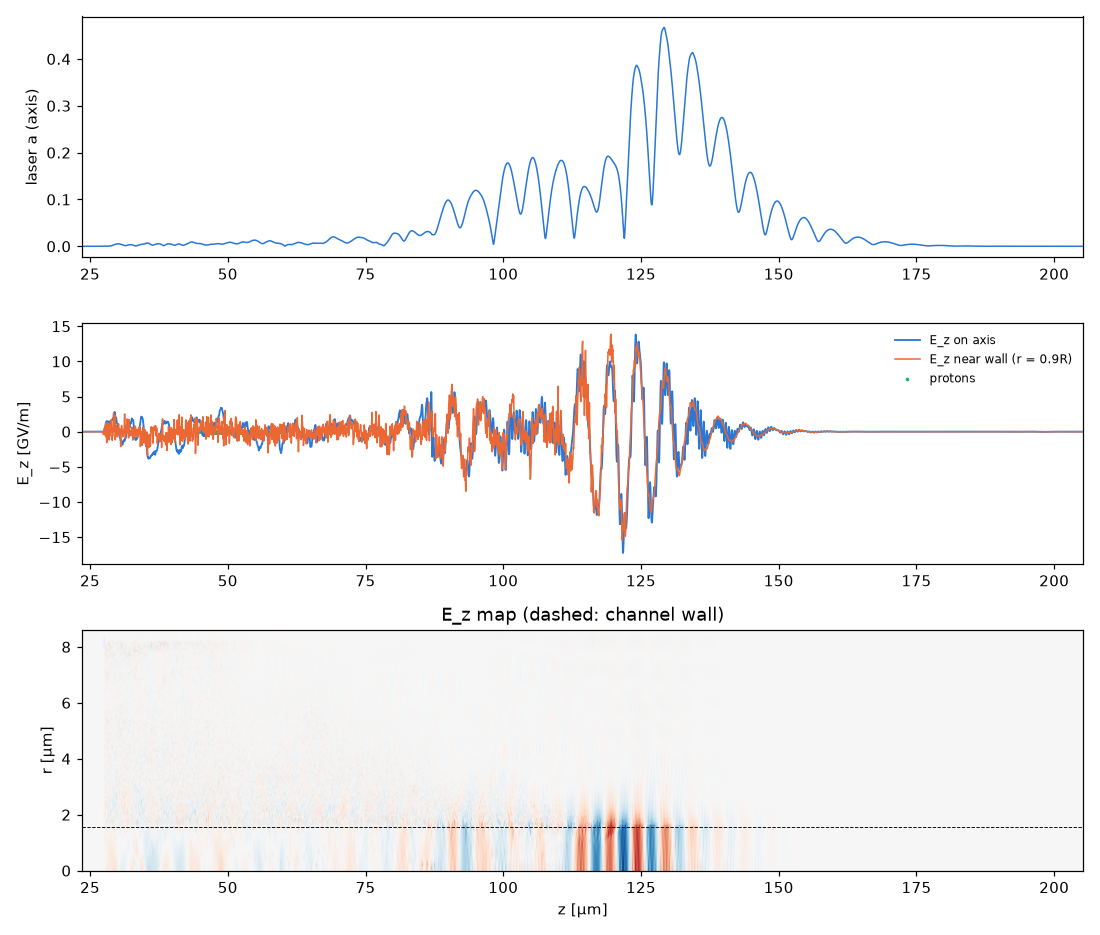
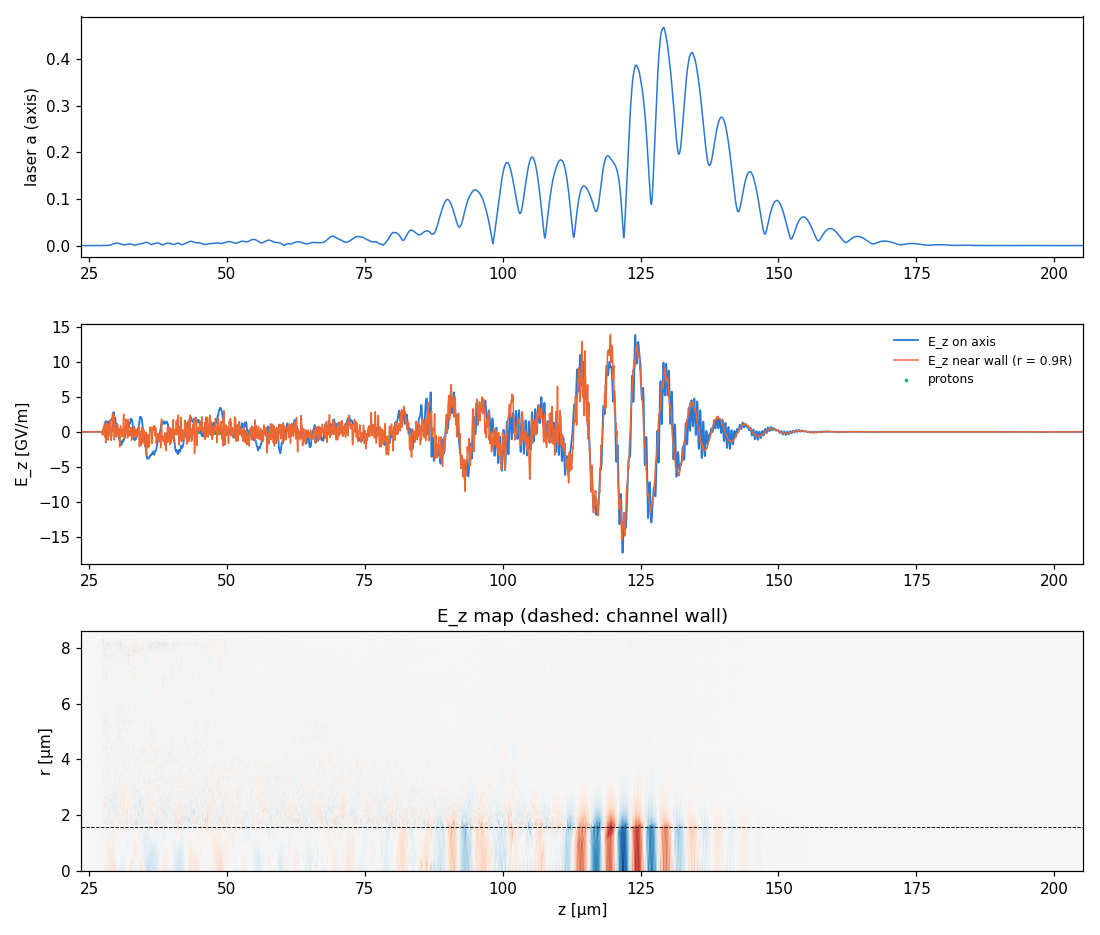
Correct S044 wave-speed measurement (0.979c by cross-correlation, matches guided-mode theory 0.980c); retuned follow-up set-up

diff --git a/sims/phase2/analyse_fbpic_sp.py b/sims/phase2/analyse_fbpic_sp.py
@@ -6,27 +6,35 @@ import matplotlib.pyplot as plt
 from scipy.constants import c
 
 here = os.path.dirname(os.path.abspath(__file__)); ROOT = os.path.join(here, "..", "..")
-out_dir = os.path.join(here, "fbpic_sp_out")
+out_name = sys.argv[1] if len(sys.argv) > 1 else "fbpic_sp_out"
+tag = sys.argv[2] if len(sys.argv) > 2 else "FBPIC_surface_plasmon"
+out_dir = os.path.join(here, out_name)
 summ = json.load(open(os.path.join(out_dir, "summary.json")))
 d = summ["design"]; E0w = d["E0_wall_GVm"] * 1e9; R = d["R_um"] * 1e-6; lam_sp = d["lam_sp_um"] * 1e-6
-files = sorted(glob.glob(os.path.join(out_dir, "snap_*.npz")))
+# only this run's snapshots (an earlier aborted attempt left snap_000050/100/200 in fbpic_sp_out)
+files = [os.path.join(out_dir, f"snap_{r['step']:06d}.npz") for r in summ["snaps"]]
 S = [np.load(f) for f in files]
 
 
-def crossings(s, field="Ez_axis"):
-    z, E = s["z"], s[field]
-    m = np.abs(E) > 0.05 * np.abs(E).max()
-    idx = np.where((E[:-1] > 0) & (E[1:] <= 0) & m[:-1])[0]
-    return z[idx] - c * float(s["t"])
+def xcorr_velocity(s1, s2, half_width=12e-6):
+    """Speed of the E_z pattern near the laser envelope: cross-correlate on-axis E_z of two
+    snapshots in lab coordinates, searching displacements c*dt +- lam_sp/2."""
+    z1, z2 = s1["z"], s2["z"]; dzg = z1[1] - z1[0]; dt = float(s2["t"] - s1["t"])
+    env = s2["env_a"]; ze = np.sum(z2 * env ** 2) / np.sum(env ** 2)
+    m = np.where(np.abs(z2 - ze) < half_width)[0]; a_ = s2["Ez_axis"][m]
+    lags = np.arange(-int(0.5 * lam_sp / dzg), int(0.5 * lam_sp / dzg) + 1); cc = []
+    for L in lags:
+        b = np.interp(z2[m] - c * dt - L * dzg, z1, s1["Ez_axis"])
+        cc.append(np.dot(a_, b) / np.sqrt(np.dot(a_, a_) * np.dot(b, b) + 1e-30))
+    i = int(np.argmax(cc))
+    return 1 + lags[i] * dzg / (c * dt), float(cc[i])
 
 
 vel = []
 for s1, s2 in zip(S[:-1], S[1:]):
-    z1, z2 = crossings(s1), crossings(s2)
-    dt = float(s2["t"] - s1["t"])
-    dz = [q - z1[np.argmin(np.abs(z1 - q))] for q in z2 if z1.size and np.min(np.abs(z1 - q)) < 0.4 * lam_sp]
-    if dz:
-        vel.append(1 + np.median(dz) / (c * dt))
+    v_, q_ = xcorr_velocity(s1, s2)
+    if q_ > 0.5:
+        vel.append(v_)
 s = S[-1]
 z, Ea, Ew, env = s["z"], s["Ez_axis"], s["Ez_wall"], s["env_a"]
 ze = np.sum(z * env ** 2) / np.sum(env ** 2)
@@ -43,16 +51,19 @@ if behind.any():
 inside = np.abs(z - ze) < 2 * we
 ratio_axis_wall = float(np.abs(Ea[inside]).max() / max(np.abs(Ew[inside]).max(), 1e-9))
 T0 = S[0]["pT"]; T1 = s["pT"]; r0 = S[0]["pr"]; r1 = s["pr"]
-dT = T1 - T0
-res = dict(wave_phase_velocity_c=[float(v) for v in vel], target_velocity_c=0.971,
+res = dict(wave_phase_velocity_c=[float(v) for v in vel], wave_velocity_mean_c=float(np.mean(vel)) if vel else None,
+           wave_velocity_std_c=float(np.std(vel)) if vel else None, target_velocity_c=0.9712,
            Ez_axis_max_in_train_GVm=float(np.abs(Ea[inside]).max() / 1e9),
            axis_over_wall_in_train=ratio_axis_wall, periods_behind=per,
-           proton_dT_mean_MeV=float(dT.mean()), proton_dT_max_MeV=float(dT.max()), proton_dT_min_MeV=float(dT.min()),
+           # particle order is not preserved between GPU snapshots -> compare distributions, not particles
+           proton_T_mean_change_MeV=float(T1.mean() - T0.mean()),
+           proton_T_std_MeV=[float(T0.std()), float(T1.std())],
+           proton_T_range_MeV=[[float(T0.min()), float(T0.max())], [float(T1.min()), float(T1.max())]],
            proton_r_rms_um=[float(np.sqrt(np.mean(r0 ** 2)) * 1e6), float(np.sqrt(np.mean(r1 ** 2)) * 1e6)],
            proton_frac_inside_R=float(np.mean(r1 < R)), t_fs=float(s["t"] * 1e15),
            protons_behind_envelope_um=float((ze - np.mean(s["pz"])) * 1e6))
 print(json.dumps(res, indent=1))
-json.dump(res, open(os.path.join(ROOT, "results", "data", "FBPIC_surface_plasmon_analysis.json"), "w"), indent=1)
+json.dump(res, open(os.path.join(ROOT, "results", "data", f"{tag}_analysis.json"), "w"), indent=1)
 fig, ax = plt.subplots(3, 1, figsize=(10, 8.5))
 zz = z * 1e6
 ax[0].plot(zz, env, color="#2a78d6", lw=1); ax[0].set_ylabel("laser a (axis)")
@@ -68,4 +79,4 @@ ax[2].axhline(R * 1e6, color="k", lw=0.6, ls="--"); ax[2].set_ylabel("r [µm]");
 ax[2].set_title("E_z map (dashed: channel wall)")
 for a_ in ax[:2]:
     a_.set_xlim(zz[0], zz[-1])
-plt.tight_layout(); plt.savefig(os.path.join(ROOT, "results", "figures", "FBPIC_surface_plasmon.png"), dpi=110)
+plt.tight_layout(); plt.savefig(os.path.join(ROOT, "results", "figures", f"{tag}.png"), dpi=110)

diff --git a/sims/phase2/modal_fbpic_sp.py b/sims/phase2/modal_fbpic_sp.py
@@ -1,8 +1,8 @@
 """Run the FBPIC hollow-channel surface-plasmon test (S044) on a Modal GPU and copy results back.
 
 Usage (from the repo root, via the Avast-compatible launcher):
-    python ~/.local/bin/modal_avast.py run sims/phase2/modal_fbpic_train.py --steps 4500
-Outputs land in sims/phase2/fbpic_train_out/ (snapshots are git-ignored; summary.json is kept).
+    python ~/.local/bin/modal_avast.py run sims/phase2/modal_fbpic_sp.py --steps 6000 [--extra "--R_cwp 2.4 ..."] [--out fbpic_sp2_out]
+Outputs land in sims/phase2/<out>/ (snapshots are git-ignored; summary.json is kept).
 """
 import os
 import modal
@@ -18,27 +18,28 @@ image = (
 app = modal.App("mcf-fbpic-surface-plasmon", image=image)
 
 
-@app.function(gpu=["L4", "A10G", "T4", "L40S"], timeout=3 * 3600, cpu=4, memory=16384)
-def run(steps: int = 6000, diag_every: int = 500):
+@app.function(gpu=["L4", "A10G", "T4", "L40S"], timeout=6 * 3600, cpu=4, memory=16384)
+def run(steps: int = 6000, diag_every: int = 500, extra: str = "", out: str = "fbpic_sp_out"):
     import subprocess, glob, time
     t0 = time.time()
     cmd = ["python", "/work/fbpic_surface_plasmon.py", "--steps", str(steps), "--diag_every", str(diag_every),
-           "--cuda", "--out", "fbpic_sp_out"]
+           "--cuda", "--out", out] + extra.split()
     p = subprocess.run(cmd, cwd="/work", capture_output=True, text=True)
     files = {}
-    for f in glob.glob("/work/fbpic_sp_out/*"):
+    for f in glob.glob(f"/work/{out}/*"):
         files[os.path.basename(f)] = open(f, "rb").read()
     return dict(returncode=p.returncode, stdout=p.stdout[-20000:], stderr=p.stderr[-8000:],
                 files=files, runtime_s=time.time() - t0)
 
 
 @app.local_entrypoint()
-def main(steps: int = 6000, diag_every: int = 500):
-    res = run.remote(steps, diag_every)
-    out = os.path.join(HERE, "fbpic_sp_out")
+def main(steps: int = 6000, diag_every: int = 500, extra: str = "", out: str = "fbpic_sp_out"):
+    res = run.remote(steps, diag_every, extra, out)
+    log = os.path.join(HERE, out.replace("_out", "") + "_run_modal.log")
+    out = os.path.join(HERE, out)
     os.makedirs(out, exist_ok=True)
     for name, data in res["files"].items():
         open(os.path.join(out, name), "wb").write(data)
-    open(os.path.join(HERE, "fbpic_sp_run_modal.log"), "w").write(res["stdout"] + "\n--- stderr ---\n" + res["stderr"])
+    open(log, "w").write(res["stdout"] + "\n--- stderr ---\n" + res["stderr"])
     print(f"returncode={res['returncode']} runtime={res['runtime_s']:.0f}s files={len(res['files'])}")
     print("\n".join(l for l in res["stdout"].splitlines() if l.startswith("step") or "Error" in l)[-3000:])

diff --git a/sims/phase2/fbpic_surface_plasmon.py b/sims/phase2/fbpic_surface_plasmon.py
@@ -27,6 +27,8 @@ ap.add_argument("--w_ratio", type=float, default=3.3, help="w_laser / w_pw(wall)
 ap.add_argument("--R_cwp", type=float, default=3.0)
 ap.add_argument("--wsp", type=float, default=0.662, help="surface-mode frequency / w_pw")
 ap.add_argument("--tau_fs", type=float, default=100.0, help="intensity FWHM of each colour")
+ap.add_argument("--w0_R", type=float, default=0.65, help="laser waist / R (LP01 match ~ 0.65+1.619V^-1.5)")
+ap.add_argument("--bunch", default="behind", choices=["behind", "centre"], help="proton bunch behind the envelope (S044) or at its centre, inside the beat (S045)")
 ap.add_argument("--cuda", action="store_true")
 ap.add_argument("--out", default="fbpic_sp_out")
 a = ap.parse_args()
@@ -39,14 +41,14 @@ cwp = c / wpw
 R = a.R_cwp * cwp
 w2 = w1 - a.wsp * wpw
 lam2 = 2 * np.pi * c / w2
-w0 = 0.65 * R                                   # fundamental hollow-core mode ~ 0.65 R
+w0 = a.w0_R * R                                 # S044: 0.65 R; S045: LP01 mode-field radius
 tau = a.tau_fs * 1e-15 / np.sqrt(2 * np.log(2))
 
 dz = lam1 / 30
 dr = R / 40
 rmax = 3.5 * R + 6 * cwp
 Nr = int(rmax / dr)
-lam_sp = 2 * np.pi * cwp / (a.wsp / 0.971)
+lam_sp = 2 * np.pi * cwp / (a.wsp / 0.9712)
 Lz = 2.6 * c * tau * 2 + 8 * lam_sp
 Nz = int(Lz / dz)
 zmax, zmin = 0.0, -Lz
@@ -71,7 +73,7 @@ sim.add_new_species(q=e, m=m_p, n=n_w, dens_func=dens, p_nz=2, p_nr=2, p_nt=4,
 for lam in (lam1, lam2):
     add_laser_pulse(sim, GaussianLaser(a0=a.a0, waist=w0, tau=tau, z0=z0, zf=z0, lambda0=lam))
 g0 = 1 + 3000.0 / 938.272
-zb = z0 - 2.6 * c * tau - 2 * lam_sp
+zb = z0 - 2.6 * c * tau - 2 * lam_sp if a.bunch == "behind" else z0
 bunch = add_particle_bunch_gaussian(sim, q=e, m=m_p, sig_r=0.15 * R, sig_z=0.5 * lam_sp, n_emit=2e-10,
                                     gamma0=g0, sig_gamma=1e-4 * g0, n_physical_particles=1e4,
                                     n_macroparticles=20000, tf=0.0, zf=zb)

diff --git a/docs/SIMULATION_LOG.md b/docs/SIMULATION_LOG.md
@@ -371,7 +371,7 @@ Codes (all in `sims/codes/`):
 - **Set-up (from S040):** wall n = 1.02×10²⁰ cm⁻³ (E₀,wall = 973 GV/m), vacuum core R = 3 c/ω_pw = 1.58 µm, two colours 1.00 µm + 1.25 µm (beat = 0.662 ω_pw, target wave speed 0.971c), a0 = 0.4 each, 100 fs, w0 = 0.65R, launched already focused inside the channel (an earlier attempt launched from vacuum clipped the 1-µm-waist beam); 3 GeV proton test bunch (σ_r = 0.15R, normalised emittance 2×10⁻¹⁰ m rad) placed behind the laser.
 - **Results (t = 667 fs, ≈ 200 µm of channel):**
   - beat is guided; on-axis E_z in the train 13–30 GV/m over the run (17 GV/m at the end) = **~0.02 E₀,wall**; axis/wall ratio 1.1 (field fills the core, as predicted for R = 3 c/ω_p at this speed);
-  - wave phase velocity: only two usable snapshot-pair estimates, **1.05c and 1.10c** (target 0.971c). Superluminal values point to the measured E_z being dominated by the laser-driven/guided-mode beat rather than a free slow surface wave; the slow mode is **not** demonstrated;
+  - wave phase velocity (**corrected 2026-11-03**, cross-correlating on-axis E_z between successive snapshots near the envelope, 11 pairs): **0.979 ± 0.006c**, vs 0.971c needed and **0.980c predicted** by the LP01 guided-mode dispersion of the hollow channel (both colours in the fundamental mode; V = ω_pw R/c = 3). *The first version of this entry reported 1.05c and 1.10c: that zero-crossing estimate was wrong — it picked up noise behind the envelope and mixed in three stale snapshots (steps 50/100/200) from the earlier clipped attempt.* So the beat is sub-luminal and only ~1 % too fast (dephasing length ≈ 0.3 mm);
   - behind the envelope the field falls from 6.4 GV/m (period 1) to 2–3 GV/m noise level by period 5–10 — no persistent surface wave;
-  - protons (75 µm behind the envelope centre, i.e. in the decayed region): mean ΔT = +0.003 MeV, per-particle ±2.5 MeV, r_rms 0.335 → 0.339 µm, 100 % stay inside R — **no measurable acceleration**, no break-up.
-- **Conclusion:** first test negative/inconclusive. The design flaws are identifiable: (i) the bunch should sit inside the beat, but a 0.971c proton slips back relative to a ≈c envelope, so the drive must be long (same constraint as S043); (ii) a co-propagating two-colour beat in a hollow guide moves at ≈ the guided group velocity (> 0.99c here), so matching 0.971c needs Δk > Δω/c (e.g. different guided modes or a counter-/oblique geometry), not just a frequency difference. Does **not** beat the guided train at 3 GeV; not added to the design. A follow-up would need a mode-mismatched beat and a multi-ps envelope.
+  - protons (75 µm behind the envelope centre, i.e. in the decayed region): mean ΔT = +0.003 MeV, energy spread unchanged (σ_T 0.391 → 0.391 MeV; the per-particle "±2.5 MeV" first quoted was an artefact — particle order is not preserved between GPU snapshots), r_rms 0.335 → 0.339 µm, 100 % stay inside R — **no measurable acceleration**, no break-up.
+- **Conclusion:** first test negative/inconclusive, for an identifiable reason: the bunch sat behind the laser, where the wave had decayed — a 0.971c proton falls back relative to a ≈c envelope, so it must start inside the beat and the envelope must be long enough to hold it over the stage. (A second suggested fix in the first version of this entry — a beat with Δk > Δω/c from different guided modes — was based on the wrong speed measurement and is not needed: a small radius change, R = 3 → 2.4 c/ω_pw, retunes the fundamental-mode beat to 0.972c.) Does **not** beat the guided train at 3 GeV on this evidence; follow-up S045.

diff --git a/docs/RESULTS.md b/docs/RESULTS.md
@@ -248,10 +248,11 @@ channel-coupling factors. "PV" = with photovoltaic recovery of leftover light (S
   ~1 GeV (0.75–0.94 of the wall field) and ≤ 5×10⁻⁶ at 100 MeV. A possible alternative high-energy
   structure; does not solve the slow section. Amplitudes/efficiency need PIC.
   *First quasi-3D PIC test at 3 GeV (S044, FBPIC on GPU) [sim]:* the two-colour beat is guided and
-  gives ~17 GV/m on axis (~0.02 of the wall wave-breaking field), but its measured speed was ≈1.05–1.1c
-  instead of 0.971c, the wave did not persist behind the laser, and the 3 GeV test protons gained no
-  measurable energy. It does not beat the guided train; matching 0.971c needs a beat with Δk > Δω/c
-  (e.g. two different guided modes) and an envelope long enough to stay with the protons.
+  gives ~17 GV/m on axis (~0.02 of the wall wave-breaking field), moving at 0.979c (0.971c needed;
+  0.980c predicted by guided-mode theory — an earlier version of this note wrongly said 1.05–1.1c).
+  The wave did not persist behind the laser, and test protons placed there gained no energy. It does
+  not yet beat the guided train; follow-up (S045) puts the protons inside the beat with the speed
+  retuned by a smaller channel radius.
 - **Monochromatic photovoltaic recovery** (68.9 % GaAs at ~0.85 µm; 55–59 % demonstrated at
   ~1.07 µm, the relevant wavelength here): light that drove the wake is spread out of the cell band
   (S039), so recovery works mainly on light that never interacted. Gain ≤ 1/(1 − η_laser η_PV f):
